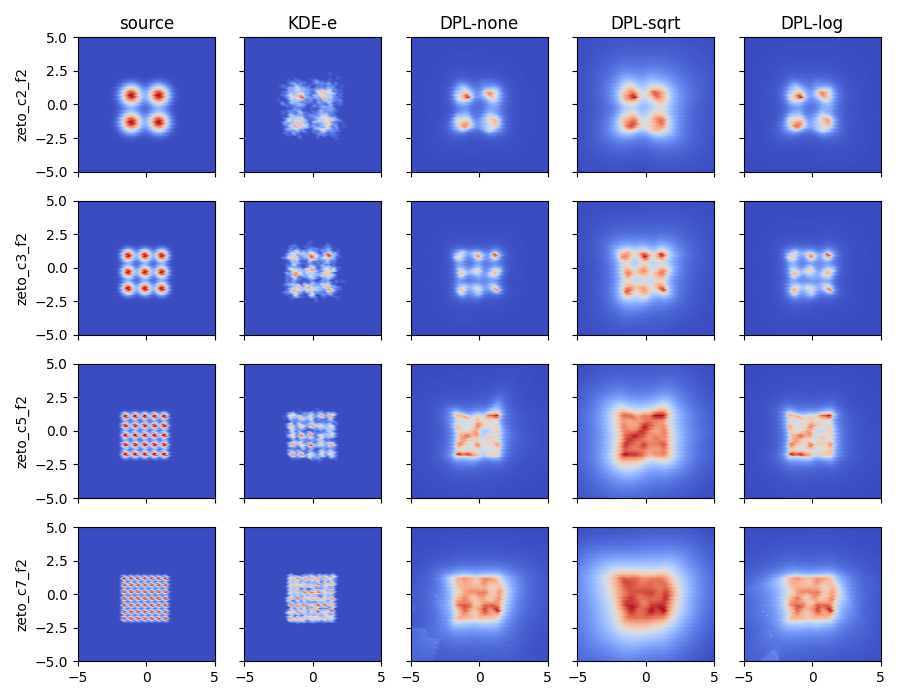
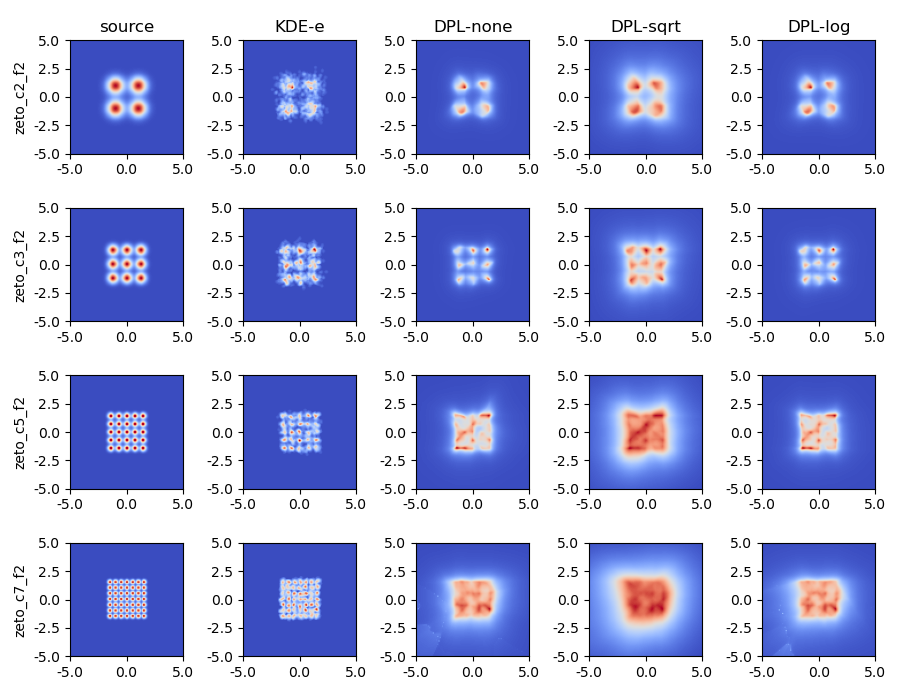
Adding regular image to E3_2d plot.

diff --git a/E3_2d_plot.py b/E3_2d_plot.py
@@ -31,18 +31,32 @@ res_pred = np.mean(res_pred, axis=0)
 # Plot imgs
 labels = ['source', 'KDE-g', 'KDE-t', 'KDE-e', 'DPL-none', 'DPL-sqrt', 'DPL-log', 'DPL-std']
 
-fig, ax = plt.subplots(4,5,figsize=(9,7), sharex=True, sharey=True)
+fig, ax = plt.subplots(4,5,figsize=(9,7))#, sharex=True, sharey=True)
 
 for d_plot_id, dataset_id in enumerate([1,5,9,13]):
     for plot_id, est_id in enumerate([0,3,4,5,6]):
-        ax[d_plot_id, plot_id].scatter(*pred_mesh.T, c=res_pred[dataset_id, est_id], cmap='coolwarm')
+        
+        print(pred_mesh.shape)
+        print(res_pred[dataset_id, est_id].shape)
+        
+        q = np.sqrt(pred_mesh.shape[0]).astype(int)
+        img = res_pred[dataset_id, est_id].reshape(q,q)
+        print(img.shape)
+        
+        #ax[d_plot_id, plot_id].scatter(*pred_mesh.T, c=res_pred[dataset_id, est_id], cmap='coolwarm')
+        
+        ax[d_plot_id, plot_id].imshow(img, cmap='coolwarm')
     
         if d_plot_id==0:
             ax[d_plot_id, plot_id].set_title(labels[est_id])
         if plot_id ==0:
             ax[d_plot_id, plot_id].set_ylabel(dataset_names[dataset_id])
-        ax[d_plot_id, plot_id].set_xlim(-5,5)
-        ax[d_plot_id, plot_id].set_ylim(-5,5)
+        ax[d_plot_id, plot_id].set_xlim(0,q-1)
+        ax[d_plot_id, plot_id].set_ylim(0,q-1)
+        ax[d_plot_id, plot_id].set_xticks(np.linspace(0,q-1,3),
+                                          np.linspace(-5,5,3))
+        ax[d_plot_id, plot_id].set_yticks(np.linspace(0,q-1,5),
+                                          np.linspace(-5,5,5))
 
 
             
